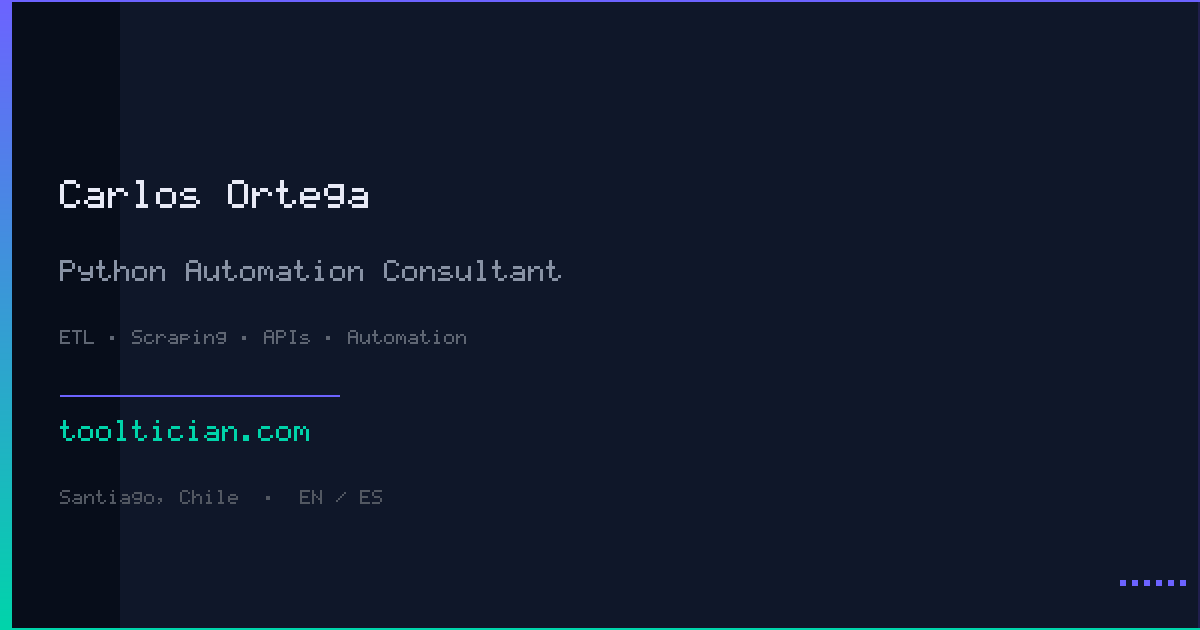
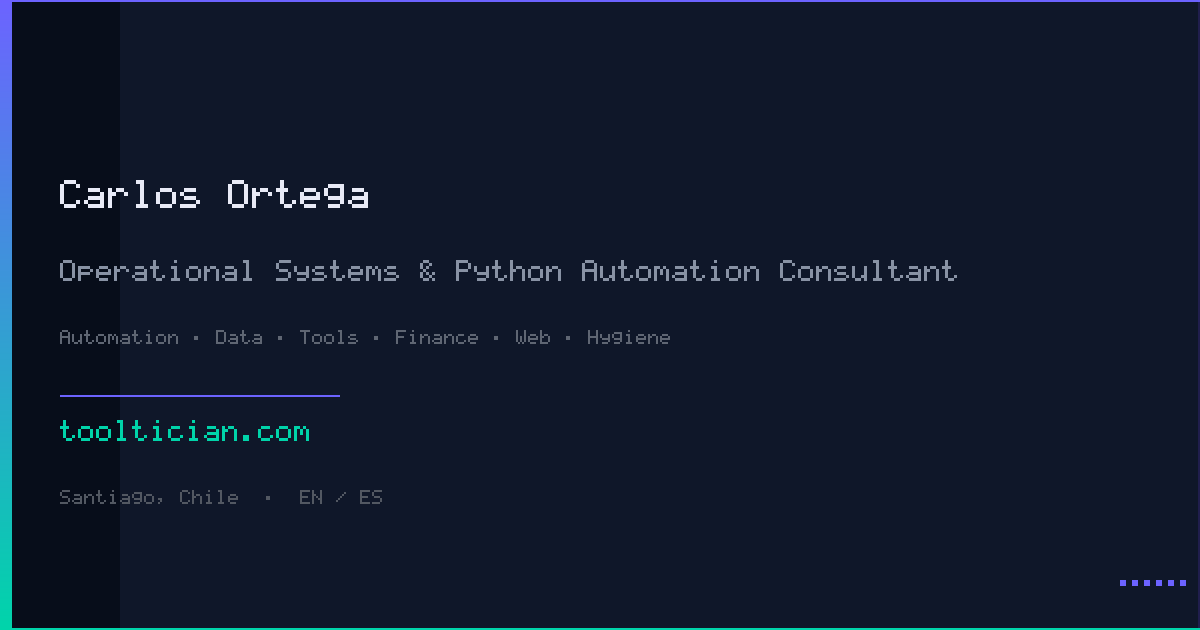
feat(og): per-locale OG cards with Spanish glyphs and built-output guards

diff --git a/tests/run.js b/tests/run.js
@@ -5,7 +5,7 @@
  * Run: node tests/run.js --built    (source + dist output checks)
  */
 
-import { readFileSync, existsSync, statSync } from 'fs';
+import { readFileSync, existsSync } from 'fs';
 import { join } from 'path';
 
 const ROOT = new URL('..', import.meta.url).pathname.replace(/\/$/, '');
@@ -648,16 +648,38 @@ group('I4 · Root is a bilingual x-default landing', () => {
   );
 });
 
-group('I5–I6 · OG card exists', () => {
-  const ogPath = join(ROOT, 'public/assets/images/og-card.png');
-  const exists = existsSync(ogPath);
-  assert('public/assets/images/og-card.png exists', exists);
-  if (exists) {
-    const size = statSync(ogPath).size;
+// Drift note: OG copy lives in scripts/generate-og.mjs (COPY table). Any copy
+// change must be followed by regenerating both cards:
+//   node scripts/generate-og.mjs --lang=en && node scripts/generate-og.mjs --lang=es
+group('I5–I6 · OG cards exist (EN + ES)', () => {
+  for (const file of ['og-card.png', 'og-card-es.png']) {
+    const ogPath = join(ROOT, 'public/assets/images', file);
+    const exists = existsSync(ogPath);
+    assert(`public/assets/images/${file} exists`, exists);
+    if (exists) {
+      const buf = readFileSync(ogPath);
+      const isPng =
+        buf.length > 8 && buf[0] === 0x89 && buf[1] === 0x50 && buf[2] === 0x4e && buf[3] === 0x47;
+      assert(`${file} is a PNG`, isPng, 'missing PNG signature');
+      assert(
+        `${file} has meaningful size (> 5000 bytes)`,
+        buf.length > 5000,
+        `File too small: ${buf.length} bytes — may be an empty or corrupt PNG`
+      );
+    }
+  }
+  if (BUILT) {
+    const enHome = read('dist/en/index.html') || '';
+    const esHome = read('dist/es/index.html') || '';
     assert(
-      'og-card.png has meaningful size (> 5000 bytes)',
-      size > 5000,
-      `File too small: ${size} bytes — may be an empty or corrupt PNG`
+      '[built] EN pages reference og-card.png',
+      enHome.includes('assets/images/og-card.png') && !enHome.includes('og-card-es.png'),
+      'EN home does not reference the EN card (or leaks the ES card)'
+    );
+    assert(
+      '[built] ES pages reference og-card-es.png',
+      esHome.includes('assets/images/og-card-es.png'),
+      'ES home does not reference og-card-es.png'
     );
   }
 });

diff --git a/docs/tasks/og-card-decision.md b/docs/tasks/og-card-decision.md
@@ -1,0 +1,95 @@
+# OG card decision record (plan 061 spike)
+
+> Status: **approved and wired** (2026-09-28)
+> Date: 2026-09-28
+> Plan: `plans/061-og-card-refresh.md` (spike)
+> Generator: `scripts/generate-og.mjs` · Prototypes: `public/assets/images/og-card.png`,
+> `public/assets/images/og-card-es.png`
+
+## Inventory of the current generator (Step 1)
+
+### Renderer
+
+- Pure Node.js built-ins: `zlib.deflateSync` + `fs`. No dependencies.
+- One 1200×630 RGBA `Uint8Array`; `setPixel` / `fillRect` / `fillRectGradV`
+  helpers; backgrounds, accent bars and separator lines are drawn first.
+- PNG encoding is hand-rolled: IHDR (color type 2 = RGB, bit depth 8),
+  raw scanlines with filter byte 0, deflate level 9, CRC32 chunks
+  (`scripts/generate-og.mjs:242-301`).
+
+### Font table (`FONT5`, `scripts/generate-og.mjs:79-155`)
+
+- 5 columns × 7 rows per glyph, column-major bitmask (bit `r` = row `r`,
+  row 0 at the top); a `scale` multiplier is applied per pixel in
+  `drawChar` (`:157-171`).
+- Covered glyphs: `A-Z`, `a-z`, `0-9`, space, `.` `,` `-` `—` `:` `|`
+  `(` `)` `/` `&` `'` `·`. Everything else falls back to a blank space
+  (`FONT5[ch] || FONT5[' ']`).
+- Lowercase letters occupy rows 2-6 (a 5-row x-height), so rows 0-1 are
+  free: accented lowercase glyphs fit without shifting the base letter.
+- `drawText` advances a fixed `6 × scale` per character (no kerning or
+  proportional widths); `textWidth` matches.
+
+### Layout and copy
+
+- Name scale 4 at (60, 180); role scale 3 at (60, 260); tagline scale 2 at
+  (60, 330); divider; domain scale 3 at (60, 420); location scale 2 at
+  (60, 490). Decorative dots start at x = W-80.
+- Practical limits: role ≈ 60 chars at scale 3 (18 px/char); tagline
+  ≈ 90 chars at scale 2 (12 px/char).
+- Copy was hardcoded in EN only (`:212-222`): role
+  `Python Automation Consultant`, tagline `ETL · Scraping · APIs · Automation`,
+  location `Santiago, Chile  ·  EN / ES`.
+
+### Effort to add the Spanish glyphs
+
+- The renderer needs **no change**: adding bitmaps to `FONT5` is enough.
+- Required new glyphs: `á é í ó ú ñ ü ¿ ¡` (`·` already exists). The acute
+  and diaeresis use rows 0-1 above the existing letter shapes; `ñ` gets a
+  two-row tilde; `¿` and `¡` are hand-drawn inverted forms (the base font
+  has no `?`/`!`).
+- No rasterizer dependency is needed, so the STOP condition ("glyph table
+  cannot be extended without redesigning the renderer") does not apply.
+
+## Prototype notes (Step 2)
+
+- `scripts/generate-og.mjs` now accepts `--lang=en|es` (default `en`) and
+  selects copy from a single per-locale table; output paths are
+  `og-card.png` (en) and `og-card-es.png` (es).
+- Prototype copy uses the site's canonical positioning
+  (`src/data/jsonld.ts` `jobTitle`), shortened to fit the card:
+  - EN role: `Operational Systems & Python Automation Consultant`;
+    tagline: `Automation · Data · Tools · Finance · Web · Hygiene`.
+  - ES role: `Consultor de Sistemas Operacionales y Automatización Python`;
+    tagline: `Automatización · Datos · Herramientas · Finanzas · Web · Higiene`.
+  - Location: `Santiago, Chile  ·  EN / ES` / `… · ES / EN`.
+- Both PNGs generated and visually inspected in the worktree: accents
+  render, no overflow; the ES role line is the longest string on either
+  card (59 chars ≈ 1062 px at scale 3, inside the 1140 px budget but the
+  tightest line — see open question 1).
+- The production card (`og-card.png`) and `BaseLayout` remain untouched
+  until the maintainer answers the checkpoint.
+
+## Open questions (checkpoint)
+
+1. **Role line** — is the canonical
+   `Operational Systems & Python Automation Consultant` /
+   `Consultor de Sistemas Operacionales y Automatización Python` the right
+   positioning for both locales, or should it be shorter (the ES line is
+   the longest text on the card)?
+2. **ES card** — same layout with Spanish text (current prototype), or a
+   distinct ES tagline/emphasis for the guide-driven audience?
+3. **Per-locale asset** — worth shipping a second PNG (`og-card-es.png`,
+   ~2× committed asset) or keep one bilingual card for both locales?
+
+## Decision
+
+**Approved 2026-09-28 by the maintainer (in session):**
+
+1. Role line: keep the canonical positioning in both locales.
+2. ES card: same layout, translated copy (current prototype).
+3. Per-locale asset: ship `og-card-es.png` and select it per locale.
+
+Plan 061 Step 4 applied: `BaseLayout` selects the card per locale;
+`tests/run.js` guards both files (PNG signature + size) and the built output;
+`docs/tasks/maintenance-checklist.md` documents `--lang=es`.

diff --git a/plans/README.md b/plans/README.md
@@ -249,7 +249,7 @@ plans stay in `plans/`.**
 | 058 | Perf hygiene: preload/logo/preconnect + compositor scroll bar | P2 | S | — | TODO |
 | 059 | Docs truth sweep (CLAUDE/README/CHANGELOG/contradictions/superseded banners) | P2 | M | 051 | DONE (executed 2026-09-28 on `advisor/059-docs-sweep`; verified: 006-links 0/0/0, superseded 8+2, ProofSection 1, CHANGELOG dated entry, `npm test` exit 0; merged to `master` as `89b4b0f`; archived to `plans/archive/059-docs-truth-sweep.md`) |
 | 060 | `tests/run.js` quality: fail on missing reads, drop vacuous built skips, dedupe S0 | P3 | M | — | TODO |
-| 061 | OG card spike: one copy source + ES variant | P2 | M | — | TODO |
+| 061 | OG card spike: one copy source + ES variant | P2 | M | — | DONE (executed 2026-09-28 on `advisor/061-og-card`, base `e145471`; spike + maintainer checkpoint approved in session: canonical positioning kept, ES mirrors EN layout, per-locale asset shipped; verified: check 0/0/0, src 436/436, built 467/467, funnel 82/82, intake 16/16, caseStudies 85/85, HTW no diff both locales, behavioral PASS 0 failures, `npm test` exit 0, built EN/ES og:image correct per locale, stats untouched; deviations: new `docs/tasks/og-card-decision.md` (in scope) records the inventory/decision, and the generator gained the 9 Spanish glyphs with `--lang=en|es`; awaiting merge) |
 | 062 | About trajectory proposal (employer route; decision-gated design) | P3 | S | — | TODO |
 | 063 | Backlink execution runbook (plan-019 pass) | P3 | S | — | TODO |
 

diff --git a/docs/tasks/maintenance-checklist.md b/docs/tasks/maintenance-checklist.md
@@ -49,15 +49,18 @@ curl -sSI https://tooltician.com | head -n 30
 
 ## 3. OG card
 
-Where: `public/assets/images/og-card.png`, source `scripts/generate-og.mjs`.
-How: after any major copy change, regenerate and spot-check the render:
+Where: `public/assets/images/og-card.png` (EN) and
+`public/assets/images/og-card-es.png` (ES); source `scripts/generate-og.mjs`
+(the `COPY` table). How: after any copy change, regenerate both locales and
+spot-check the renders:
 
 ```sh
-node scripts/generate-og.mjs
+node scripts/generate-og.mjs --lang=en
+node scripts/generate-og.mjs --lang=es
 ```
 
-Confirm the output image exists, has meaningful size, and renders the current
-headline correctly.
+Confirm both images exist, have meaningful size, and render the current
+headline correctly (including Spanish accents).
 
 ## 4. Full gates (all green)
 
